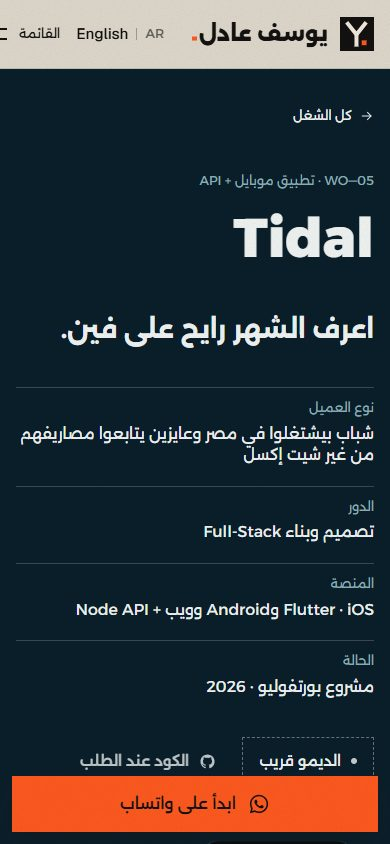
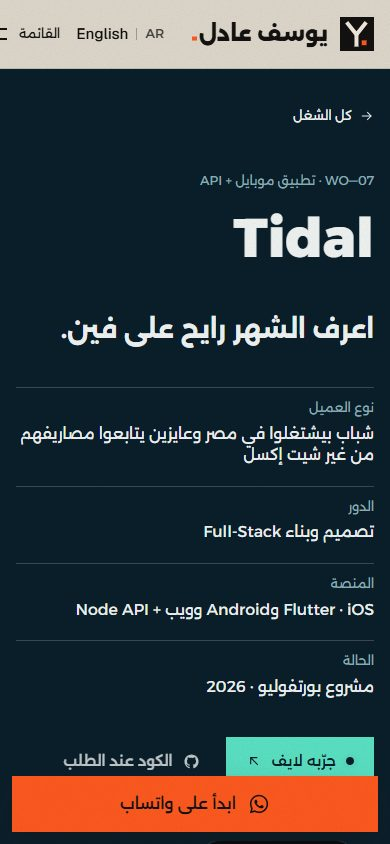
docs: document live demos and new pricing, refresh screenshots

diff --git a/README.md b/README.md
@@ -10,8 +10,9 @@ Art direction: **"The Build Sheet"**. Warm paper, oversized Bricolage Grotesque,
 
 | Page | Route |
 | --- | --- |
-| Home: hero, services, five showcase builds, pinned process, pricing, about, FAQ, CTA | `/en`, `/ar` |
-| Case studies ×5 (problem, approach, design system, screens, features, stack, results) | `/en/work/<slug>` |
+| Home: hero, services, seven showcase builds, pinned process, pricing (packages, value breakdown, comparison, estimate builder), about, FAQ, CTA | `/en`, `/ar` |
+| Case studies ×7 (problem, approach, design system, screens, features, stack, results) | `/en/work/<slug>` |
+| **Live demos ×7**: working apps with sample data (store, QR menu, SaaS site, booking, real estate, dashboard, finance app) | `/en/demo/<slug>` |
 | Services in detail + add-ons | `/en/services` |
 | Start a project: 4-step brief form with progress, zod, honeypot, WhatsApp fallback | `/en/contact` |
 | CV page with PDF download | `/en/cv` |
@@ -22,7 +23,9 @@ Every page has an Arabic twin under `/ar` with real RTL, generated Open Graph im
 
 **Stack:** Next.js 16 (App Router) · TypeScript · Tailwind CSS 4 · GSAP + ScrollTrigger · Lenis · Framer Motion (contact form only) · zod · Resend · `next/og`.
 
-All five project mockups are drawn in code (HTML/CSS/SVG) in each build's own palette and typefaces — no screenshots.
+All project mockups are drawn in code (HTML/CSS/SVG) in each build's own palette and typefaces — no screenshots. Every build also has a working live demo a visitor can click through, with a desktop / phone preview toggle.
+
+Live site: https://youssef-portfolio-pi.vercel.app
 
 ## Run it
 
@@ -49,14 +52,15 @@ Checks: `npm run lint` and `npx tsc --noEmit` (both run clean).
 | Name, email, phone, city | `person` |
 | WhatsApp number (digits only, international format) | `person.whatsapp` |
 | TikTok / Instagram / GitHub / LinkedIn | `socials` (empty = hidden everywhere) |
-| Live demo + GitHub URL of each of the 5 builds | `projects["maison-ember"].liveUrl`, `.githubUrl`, … |
+| Own deployment + GitHub URL of each build (optional) | `projects["maison-ember"].liveUrl`, `.githubUrl`, … |
+| Package prices, care plan, add-ons, deposit share | `pricing` |
 | Prices (EGP + USD) and delivery days | `pricing.packages` |
 | Default currency shown | `pricing.defaultCurrency` |
 | CV file | `cv.file` (replace `public/cv/youssef-adel-cv.pdf`) |
 
-### Adding the live URLs of the five projects
+### Live demos and project URLs
 
-When a build is deployed, paste its URLs:
+Every build already has a working demo at `/demo/<slug>` (code in `src/components/demos/`). If you deploy a build on its own, paste its URLs and the "Try it live" button switches to it:
 
 ```ts
 projects: {
@@ -65,7 +69,7 @@ projects: {
 }
 ```
 
-Until a URL is filled, the site shows a "Demo coming soon" / "Code on request" chip instead of a dead link. If a build ends up with different colors or fonts than planned, update its file in `src/content/projects/`.
+Until `githubUrl` is filled, the site shows "Code on request" instead of a dead link. If a build ends up with different colors or fonts than planned, update its file in `src/content/projects/`.
 
 ### Copy and content
 
@@ -99,7 +103,7 @@ brand/                 logo SVGs + BRAND.md
 public/{cv,fonts,images}
 screenshots/           mobile / tablet / desktop, English and Arabic
 src/app/[locale]/      routes (root layout lives here so <html lang dir> is right)
-src/components/        ui · layout · sections · motion · case-study (code-built mockups)
+src/components/        ui · layout · sections · motion · case-study (code-built mockups) · demos (live apps)
 src/config/site.ts     the one file to edit
 src/content/           copy (en/ar), projects, services, faq
 src/lib/               i18n, seo, og, fonts, gsap loader, contact schema

diff --git a/DECISIONS.md b/DECISIONS.md
@@ -15,10 +15,13 @@ Every call I made without asking, and why. Edit anything here through `src/confi
 
 ## Business placeholders (edit these)
 
-9. **Prices are placeholders** in `site.ts → pricing`: Launch from EGP 15,000 / USD 450, Growth from EGP 38,000 / USD 1,100, Custom from EGP 75,000 / USD 2,200. Delivery windows (7–10 days, 3–5 weeks, scoped) are also placeholders.
-10. **Payment terms** in the FAQ ("50% to start, 50% before launch") and **response time** ("within one working day") are sensible defaults, not facts from the CV. Change them in `src/content/faq/index.ts` and the copy files.
-11. **Site URL** defaults to `https://youssefadel.dev` (placeholder). Set `NEXT_PUBLIC_SITE_URL` in Vercel; sitemap, canonical URLs and OG images use it.
-12. **Live demo and GitHub URLs** for the five projects are empty, so the site shows "Demo coming soon" / "Code on request" states instead of dead links.
+9. **Prices are placeholders** in `site.ts → pricing`, lowered in the pricing upgrade to sit comfortably in the Egyptian freelance market: Launch from EGP 12,000 / USD 350, Growth from EGP 30,000 / USD 900, Custom from EGP 60,000 / USD 1,800. Delivery windows, the "where the money goes" percentages, the monthly care plan (EGP 1,500) and add-on prices are also placeholders in the same file.
+10. **Payment terms** ("50% to start, 50% before launch", `pricing.deposit`) and **response time** ("within one working day") are sensible defaults, not facts from the CV. Change them in `site.ts`, `src/content/faq/index.ts` and the copy files.
+11. **Site URL** defaults to the live Vercel URL `https://youssef-portfolio-pi.vercel.app`. When you add your own domain, set `NEXT_PUBLIC_SITE_URL` in Vercel; sitemap, canonical URLs and OG images use it.
+12. **Live demos:** every build has a working demo inside this site at `/demo/<slug>`, so "Try it live" is never a dead link. If a build is later deployed on its own, set its `liveUrl` in `site.ts` and the button points there. GitHub links stay "Code on request" until `githubUrl` is filled.
+12a. **The comparison table** (template / agency / me) uses qualitative "Yes / Sometimes / No", not invented numbers or competitor names.
+12b. **Two new builds, Sufra and Maskan,** were added as portfolio builds (fictional restaurant and fictional listings), designed and built in this repo as demos. Like the other five, they are labeled "Portfolio build", never client work.
+12c. **Demos are client-only and keep state in `localStorage`** (cart, bookings, budgets) under keys `demo:<slug>:*`; "Reset demo" clears them. Nothing is sent anywhere. Sufra's WhatsApp button opens WhatsApp's share screen (no fixed number) so test orders never reach a real restaurant. Demo UI is English except Sufra and Pulse Club, which switch between Arabic and English like the real products would.
 
 ## Technical
 
